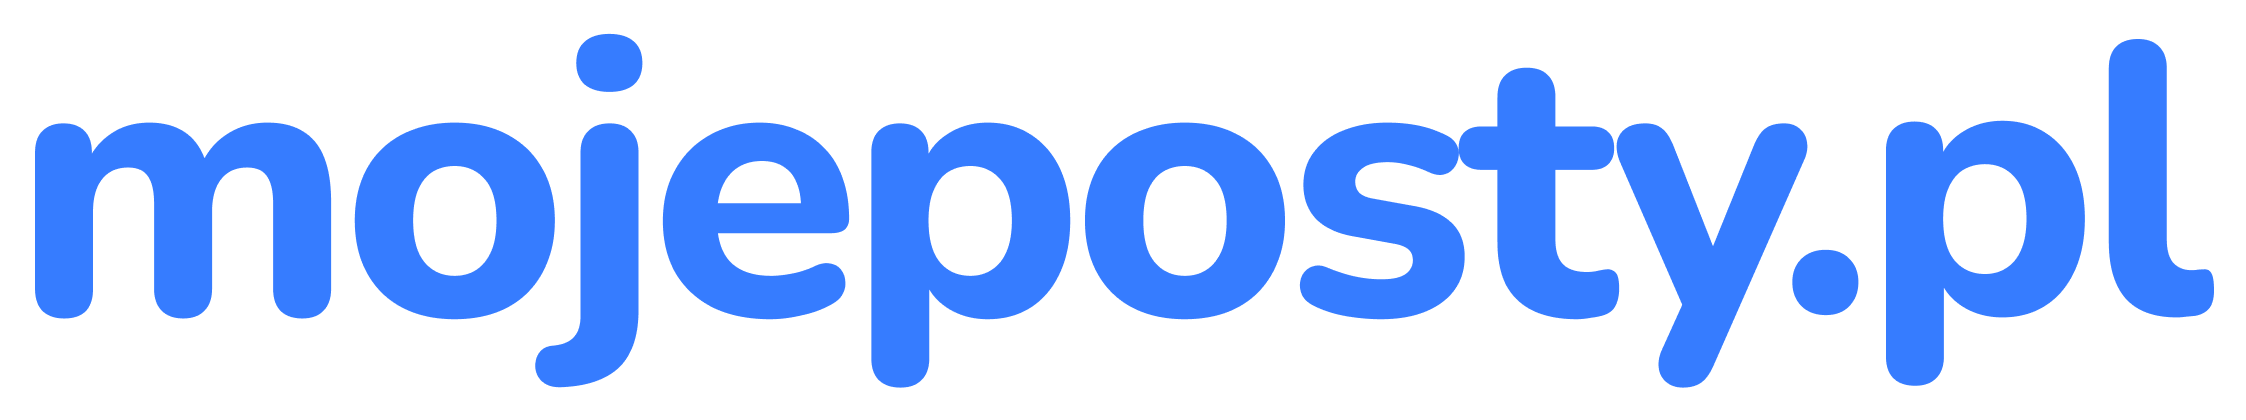
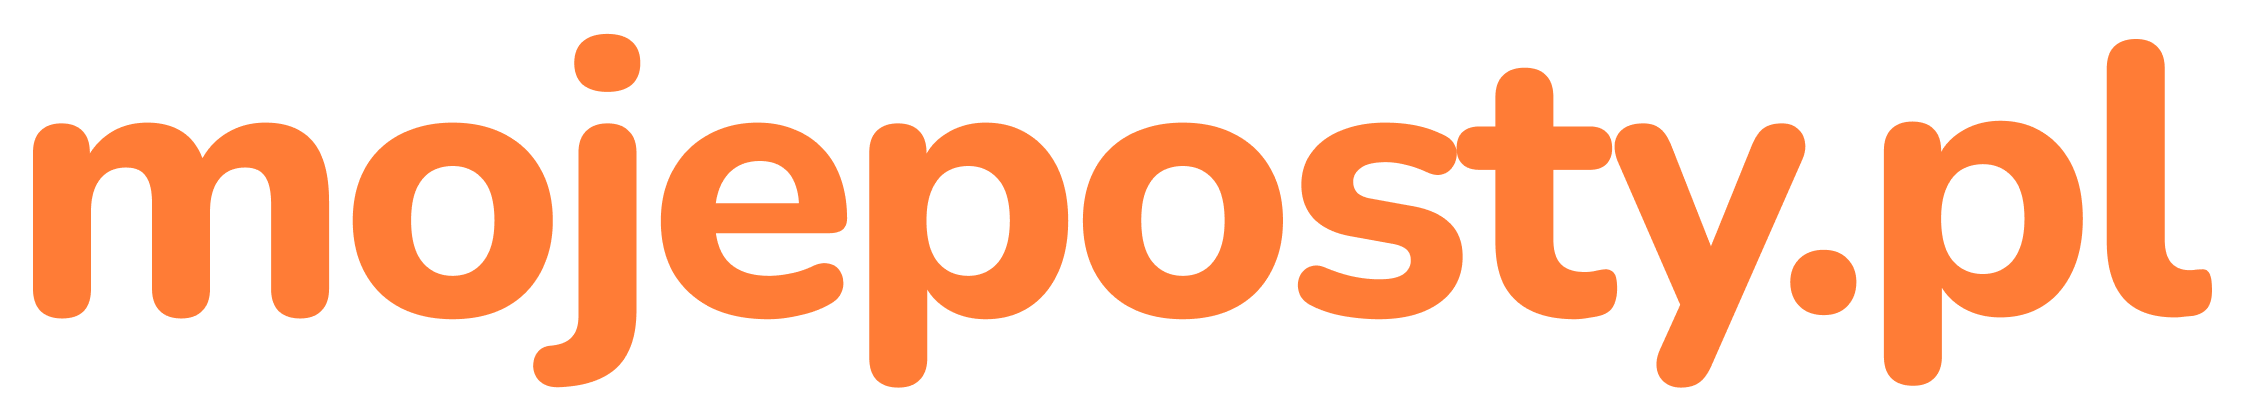
blue to orange

diff --git a/style.css b/style.css
@@ -1,5 +1,5 @@
 body {
-    background-color: #367CFF;
+    background-color: #FF7C36;
     color: white;
     margin: 0;
     padding: 0;
